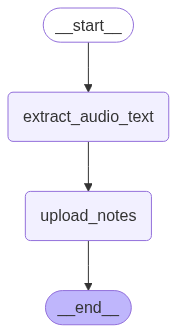
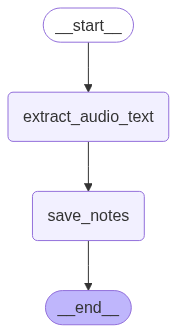
added vector db

Changed region(s): [[0.226, 0.6306, 0.7627, 0.6907], [0.791, 0.5706, 0.8757, 0.7207], [0.1412, 0.5706, 0.1977, 0.7207]]

diff --git a/tools.py b/tools.py
@@ -16,8 +16,12 @@ from dotenv import load_dotenv
 import yt_dlp
 import imageio_ffmpeg
 from openai import OpenAI
-
 from models import VideoInfo
+from langchain_openai import OpenAIEmbeddings
+from langchain_chroma import Chroma
+from langchain_core.documents import Document
+from langchain_text_splitters import RecursiveCharacterTextSplitter
+
 
 from uuid import uuid4
 import json
@@ -29,7 +33,7 @@ load_dotenv()
 client = OpenAI(api_key = os.getenv("OPENAI_API_KEY"))
 ffmpeg_path = imageio_ffmpeg.get_ffmpeg_exe()
 
-def extractAudioText(url:str) -> Optional[VideoInfo]:
+def extract_audio_text(url:str) -> Optional[VideoInfo]:
     """
     Get the text audio
     """
@@ -86,17 +90,45 @@ def extractAudioText(url:str) -> Optional[VideoInfo]:
             return None
 
 
-def saveDocs(video:VideoInfo) -> None:
+def save_docs(video:VideoInfo) -> None:
+    """
+    save the video
+    """
     print("Saving transcript.....")
-    transcript_id =  uuid4()
+    video_id =  str(uuid4())
     metadata = video.model_dump()
     contents = metadata["contents"]
     metadata.pop("contents")
     
-    with open(f"transcripts/{transcript_id}.txt","w") as f:
+    # add splitters
+    splitter = RecursiveCharacterTextSplitter(
+        chunk_size=500,
+        chunk_overlap=50,
+        separators=["\n\n", "\n", ".", " ", ""],
+    )
+    chunks = splitter.split_text(contents)
+    
+    
+    # save in vector database
+    embeddings = OpenAIEmbeddings(model="text-embedding-3-large")
+    vector_store = Chroma(
+        collection_name="raw_video_transcripts",
+        embedding_function=embeddings,
+        persist_directory="./chroma",  # Where to save data locally, remove if not necessary
+    )
+    
+    documents = [
+        Document(page_content=chunk, metadata={**metadata, "chunk_index": i, "total_chunks": len(chunks)})
+        for i, chunk in enumerate(chunks)
+    ]
+    vector_store.add_documents(documents)
+    
+    # save in file
+    with open(f"transcripts/{video_id}.txt","w") as f:
         f.write(contents)
     
-    with open(f"metadata/{transcript_id}.json","w",encoding="utf-8") as f:
+    with open(f"metadata/{video_id}.json","w",encoding="utf-8") as f:
         json.dump(metadata, f, indent=2, ensure_ascii=False)
     print("Notes saved!")
+
 

diff --git a/main.py b/main.py
@@ -1,4 +1,5 @@
 from dotenv import load_dotenv
+from langchain_chroma import Chroma
 from langgraph.graph import StateGraph, START, END
 from langchain.chat_models import init_chat_model
 from state import State
@@ -9,26 +10,26 @@ load_dotenv()
 llm = init_chat_model("o3-mini")
 
 def run_extraction(state: State) -> State:
-    from tools import extractAudioText
+    from tools import extract_audio_text
     url = state["input"]
-    res = extractAudioText(url)
+    res = extract_audio_text(url)
     
     return {"input": url, "video_info": res}
 
 def save_notes(state:State) -> State:
-    from tools import saveDocs
+    from tools import save_docs
     video_metadata = state["video_info"]
-    saveDocs(video_metadata)
+    save_docs(video_metadata)
     return {}
 
 graph_builder = StateGraph(State)
 
 graph_builder.add_node("extract_audio_text", run_extraction)
-graph_builder.add_node("upload_notes", save_notes)
+graph_builder.add_node("save_notes", save_notes)
 
 graph_builder.add_edge(START, "extract_audio_text")
-graph_builder.add_edge("extract_audio_text", "upload_notes")
-graph_builder.add_edge("upload_notes", END)
+graph_builder.add_edge("extract_audio_text", "save_notes")
+graph_builder.add_edge("save_notes", END)
 
 graph = graph_builder.compile()
 
@@ -37,4 +38,6 @@ with open("graph_diagram.png", "wb") as f:
     f.write(image_data)
 
 url = "https://www.youtube.com/watch?v=6RMRPrjdpKM"
+url = "https://www.youtube.com/watch?v=06lMe2pT-eI"
+url = "https://www.youtube.com/watch?v=4pX9tvYDjgc"
 result = graph.invoke({"input": url})
